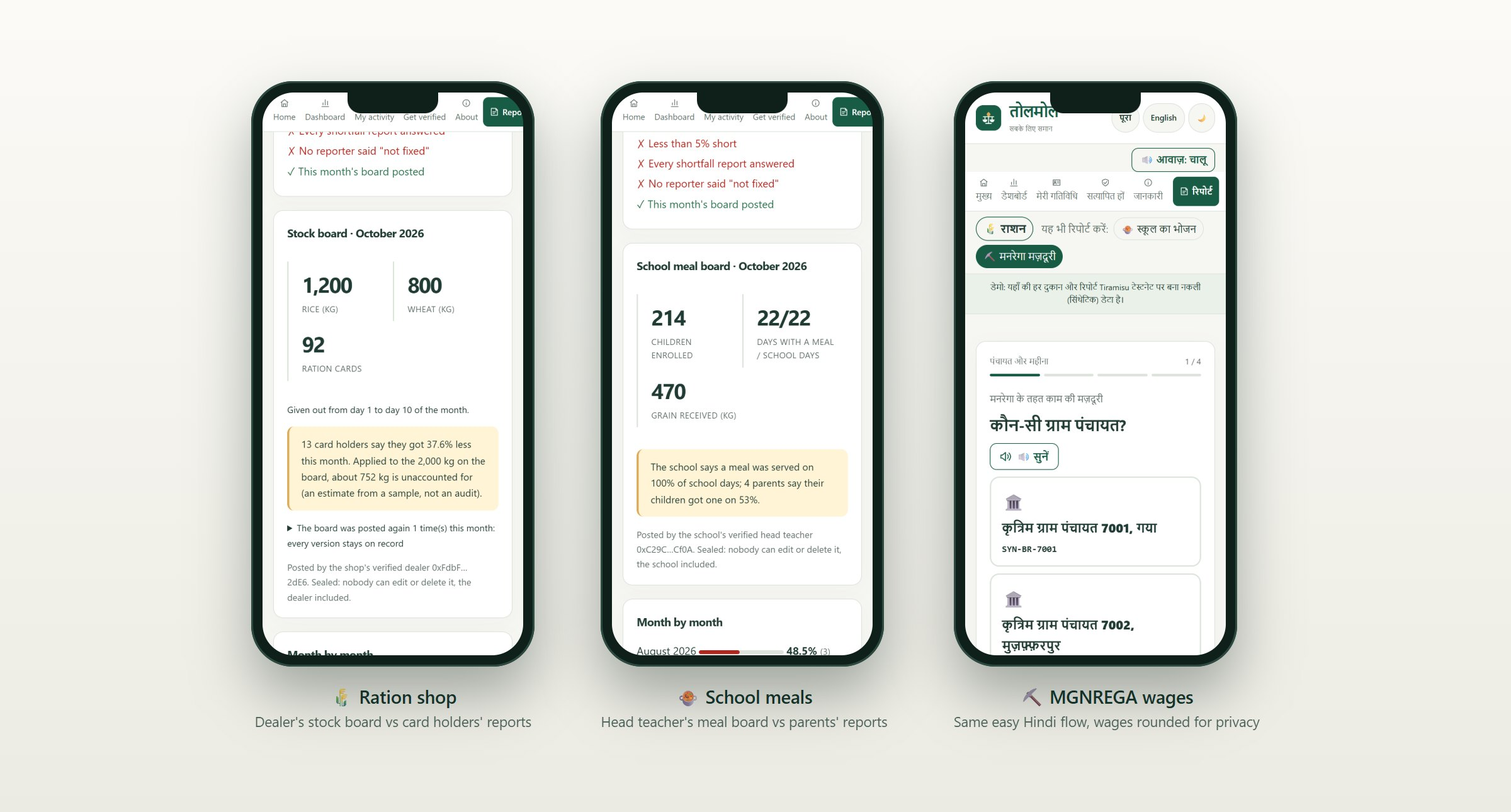
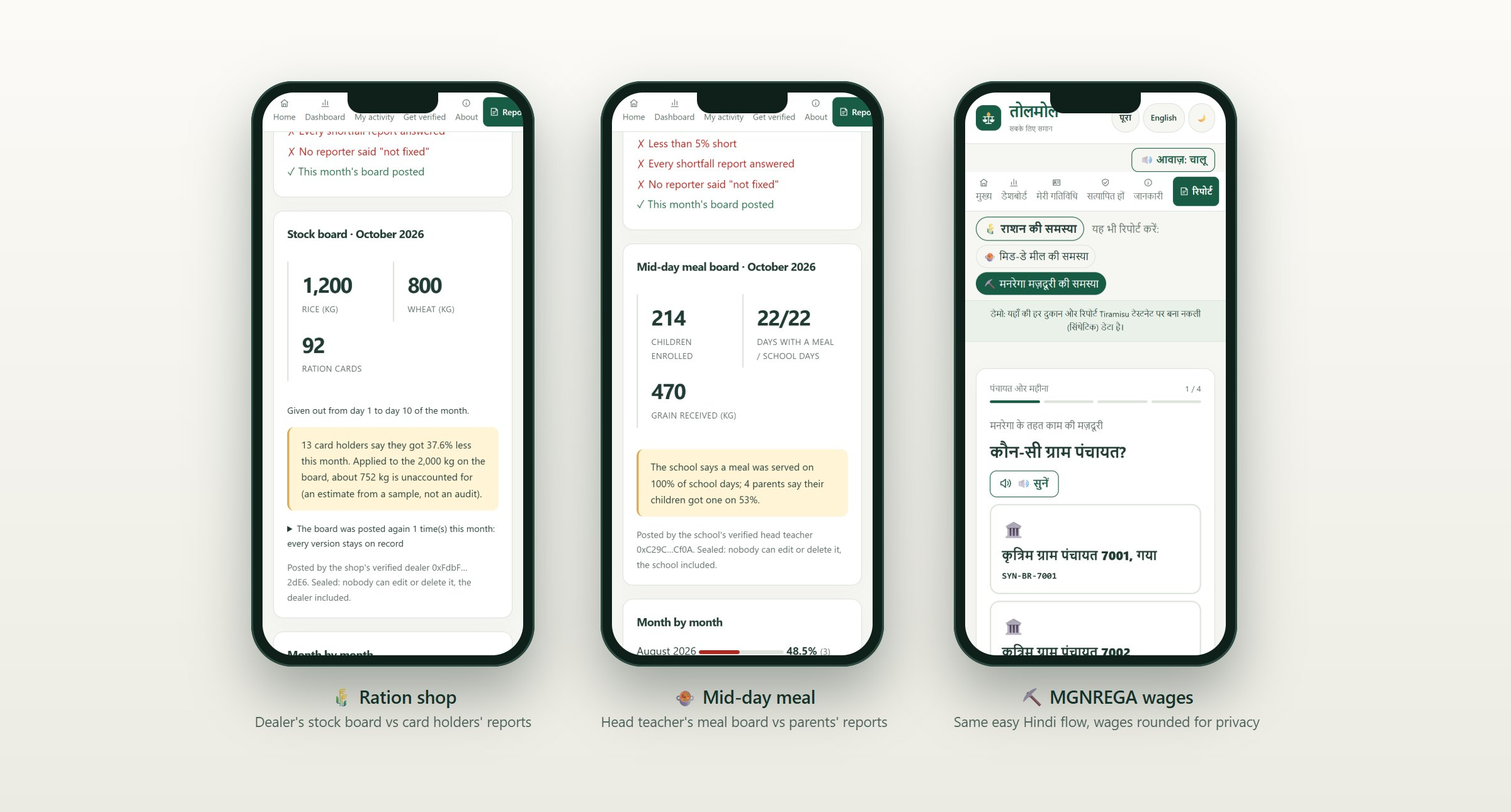
Clearer section names in both languages: Ration problem, Mid-day meal problem, MGNREGA wage problem; the school scheme is called mid-day meal everywhere

diff --git a/apps/web/src/i18n.ts b/apps/web/src/i18n.ts
@@ -417,7 +417,7 @@ const en = {
   gateTitle: "What are you here about?",
   gateHelp: "Choose one. You can switch at any time at the top of the home page.",
   gate_pds: "Ration from the ration shop",
-  gate_mdm: "My child's school meal",
+  gate_mdm: "My child's mid-day meal",
   gate_nrega: "MGNREGA work and wages",
   home1_mdm: "Your child's meal.",
   home2_mdm: "Every school day.",
@@ -444,20 +444,20 @@ const en = {
   homeStep4_nrega: "Officials of the district see the panchayat on their list, and you can print a complaint to the Programme Officer or an RTI for the muster rolls.",
   checkTitle_mdm: "Check my school",
   checkTitle_nrega: "Check my panchayat",
-  addOnsTitle: "Also on Tolmol: school meals and MGNREGA wages",
+  addOnsTitle: "Also on Tolmol: mid-day meals and MGNREGA wages",
   addOnsHelp: "Tolmol is built for ration. The same tamper-proof record also works for two more entitlements that people are often denied without a trace.",
   addOnProblem_mdm: "Meals skipped, cut or watered down at school, and the register still says every child ate.",
   addOnProblem_nrega: "Wages late or short, work refused, job cards kept, names of people who never worked on the muster roll.",
   backToRation: "Ration",
-  hubAddOnsTitle: "Also on Tolmol: school meals and MGNREGA",
-  hubAddOnsBody: "The same record for a child's school meal and for rural work wages.",
-  hubAddOnsAction: "See school meals and MGNREGA",
-  addOnsLink: "School meals and MGNREGA",
+  hubAddOnsTitle: "Also on Tolmol: mid-day meals and MGNREGA",
+  hubAddOnsBody: "The same record for a child's mid-day meal at school and for rural work wages.",
+  hubAddOnsAction: "See mid-day meals and MGNREGA",
+  addOnsLink: "Mid-day meals and MGNREGA",
   wsLabel: "Workspaces",
-  wsRation: "Ration",
+  wsRation: "Ration problem",
   wsAlso: "Also report:",
-  wsMdm: "School meals",
-  wsNrega: "MGNREGA wages",
+  wsMdm: "Mid-day meal problem",
+  wsNrega: "MGNREGA wage problem",
   progLabel: "Report steps",
   progOutlet_mdm: "School & month",
   progOutlet_nrega: "Panchayat & month",
@@ -467,7 +467,7 @@ const en = {
   progReview: "Check",
   wageRoundLabel: "Round the wages to the nearest ₹500 (recommended: muster rolls are public, and exact amounts could show who you are)",
   wageRounded: "To protect you, the wages are rounded to the nearest ₹500 (you entered {owed} owed and {paid} paid). Muster rolls are public, so exact amounts could be matched to your name.",
-  boardTitle_mdm: "School meal board",
+  boardTitle_mdm: "Mid-day meal board",
   boardTitle_nrega: "Panchayat work board",
   bChildren: "children enrolled",
   bMealDays: "days with a meal / school days",
@@ -527,14 +527,14 @@ const en = {
   outletSchool: "School (synthetic)",
   outletPanchayat: "Gram panchayat (synthetic)",
   verifyPrivacyRole: "What goes on Arkiv: only that this phone is verified for this role at {shop}, the day, and a fingerprint of the ID that cannot be turned back into it. No name, no ID number.",
-  meal_days: "School meals",
+  meal_days: "Mid-day meals",
   wage_inr: "Wages",
   unitDays: "days",
   scheme_pds: "Ration",
-  scheme_mdm: "School meals",
+  scheme_mdm: "Mid-day meal",
   scheme_nrega: "Rural work wages",
   schemeLong_pds: "Ration at the fair-price shop (National Food Security Act)",
-  schemeLong_mdm: "Hot cooked school meals (PM POSHAN, mid-day meal)",
+  schemeLong_mdm: "Hot cooked mid-day meal at school (PM POSHAN)",
   schemeLong_nrega: "Wages for work under MGNREGA",
   schemeHelp_pds: "Grain you are due every month",
   schemeHelp_mdm: "A hot cooked meal for your child on every school day",
@@ -1053,7 +1053,7 @@ const hi: Record<Key, string> = {
   previewSensitiveScheme: "आपने जो बताया उसकी वजह से आपकी सुरक्षा के लिए अलग ID चालू कर दिया गया है। चाहें तो निजता विकल्पों में बंद कर सकते हैं।",
   operatorIdTitle_SCH: "टेस्ट प्रधानाध्यापक ID",
   operatorIdTitle_GPO: "टेस्ट पंचायत रोज़गार सेवक ID",
-  operatorIdHelp_SCH: "डेमो के लिए नकली टेस्ट ID, किसी सरकार का जारी किया हुआ नहीं। यह इस फ़ोन को {shop} का सत्यापित प्रधानाध्यापक बनाता है, ताकि यह उस स्कूल के भोजन की रिपोर्टों का जवाब दे सके।",
+  operatorIdHelp_SCH: "डेमो के लिए नकली टेस्ट ID, किसी सरकार का जारी किया हुआ नहीं। यह इस फ़ोन को {shop} का सत्यापित प्रधानाध्यापक बनाता है, ताकि यह उस स्कूल के मिड-डे मील की रिपोर्टों का जवाब दे सके।",
   operatorIdHelp_GPO: "डेमो के लिए नकली टेस्ट ID, किसी सरकार का जारी किया हुआ नहीं। यह इस फ़ोन को {shop} का सत्यापित रोज़गार सेवक बनाता है, ताकि यह उस पंचायत की मज़दूरी की रिपोर्टों का जवाब दे सके।",
   verifyAsOperator: "इस फ़ोन को इस जगह का सत्यापित संचालक बनाएँ",
   operatorDone: "हो गया। यह फ़ोन अब {shop} की ओर से जवाब देता है। जवाब देने के लिए वहाँ की कोई रिपोर्ट खोलें।",
@@ -1178,7 +1178,7 @@ const hi: Record<Key, string> = {
   gateTitle: "आप किस बारे में आए हैं?",
   gateHelp: "एक चुनें। होम पेज के ऊपर कभी भी बदल सकते हैं।",
   gate_pds: "राशन दुकान से राशन",
-  gate_mdm: "मेरे बच्चे का स्कूल का भोजन",
+  gate_mdm: "मेरे बच्चे का मिड-डे मील",
   gate_nrega: "मनरेगा का काम और मज़दूरी",
   home1_mdm: "बच्चे का भोजन।",
   home2_mdm: "हर स्कूल दिवस।",
@@ -1205,20 +1205,20 @@ const hi: Record<Key, string> = {
   homeStep4_nrega: "ज़िले के अधिकारी पंचायत को अपनी सूची में देखते हैं, और आप कार्यक्रम अधिकारी को शिकायत या मस्टर रोल के लिए RTI छाप सकते हैं।",
   checkTitle_mdm: "मेरा स्कूल जाँचें",
   checkTitle_nrega: "मेरी पंचायत जाँचें",
-  addOnsTitle: "Tolmol पर यह भी: स्कूल का भोजन और मनरेगा मज़दूरी",
+  addOnsTitle: "Tolmol पर यह भी: मिड-डे मील और मनरेगा मज़दूरी",
   addOnsHelp: "Tolmol राशन के लिए बना है। यही छेड़छाड़-रहित रिकॉर्ड दो और हक़ों के लिए भी काम करता है, जो अक्सर बिना कोई निशान छोड़े छीन लिए जाते हैं।",
   addOnProblem_mdm: "स्कूल में भोजन छोड़ा, घटाया या पतला किया जाता है, और रजिस्टर में फिर भी लिखा होता है कि हर बच्चे ने खाया।",
   addOnProblem_nrega: "मज़दूरी देर से या कम, काम से इनकार, जॉब कार्ड किसी और के पास, मस्टर रोल में ऐसे लोगों के नाम जिन्होंने काम नहीं किया।",
   backToRation: "राशन",
-  hubAddOnsTitle: "Tolmol पर यह भी: स्कूल का भोजन और मनरेगा",
-  hubAddOnsBody: "बच्चे के स्कूल के भोजन और ग्रामीण काम की मज़दूरी के लिए भी यही रिकॉर्ड।",
-  hubAddOnsAction: "स्कूल का भोजन और मनरेगा देखें",
-  addOnsLink: "स्कूल का भोजन और मनरेगा",
+  hubAddOnsTitle: "Tolmol पर यह भी: मिड-डे मील और मनरेगा",
+  hubAddOnsBody: "बच्चे के मिड-डे मील और ग्रामीण काम की मज़दूरी के लिए भी यही रिकॉर्ड।",
+  hubAddOnsAction: "मिड-डे मील और मनरेगा देखें",
+  addOnsLink: "मिड-डे मील और मनरेगा",
   wsLabel: "कार्यक्षेत्र",
-  wsRation: "राशन",
+  wsRation: "राशन की समस्या",
   wsAlso: "यह भी रिपोर्ट करें:",
-  wsMdm: "स्कूल का भोजन",
-  wsNrega: "मनरेगा मज़दूरी",
+  wsMdm: "मिड-डे मील की समस्या",
+  wsNrega: "मनरेगा मज़दूरी की समस्या",
   progLabel: "रिपोर्ट के चरण",
   progOutlet_mdm: "स्कूल और महीना",
   progOutlet_nrega: "पंचायत और महीना",
@@ -1270,7 +1270,7 @@ const hi: Record<Key, string> = {
   qrTitle_nrega: "इस पंचायत का QR कोड",
   roleDealerTitle_mdm: "आप {shop} के सत्यापित प्रधानाध्यापक हैं",
   roleDealerTitle_nrega: "आप {shop} के सत्यापित रोज़गार सेवक हैं",
-  roleDealerBody_mdm: "अपने स्कूल के भोजन के बारे में माता-पिता की रिपोर्टों का जवाब तय सूची से दें। आपके जवाब सार्वजनिक हैं और वापस नहीं लिए जा सकते।",
+  roleDealerBody_mdm: "अपने स्कूल के मिड-डे मील के बारे में माता-पिता की रिपोर्टों का जवाब तय सूची से दें। आपके जवाब सार्वजनिक हैं और वापस नहीं लिए जा सकते।",
   roleDealerBody_nrega: "अपनी पंचायत के काम और मज़दूरी के बारे में मज़दूरों की रिपोर्टों का जवाब तय सूची से दें। आपके जवाब सार्वजनिक हैं और वापस नहीं लिए जा सकते।",
   roleDealerAction_mdm: "मेरा स्कूल खोलें",
   roleDealerAction_nrega: "मेरी पंचायत खोलें",
@@ -1288,11 +1288,11 @@ const hi: Record<Key, string> = {
   outletSchool: "स्कूल (नकली)",
   outletPanchayat: "ग्राम पंचायत (नकली)",
   verifyPrivacyRole: "Arkiv पर सिर्फ़ इतना जाता है: यह फ़ोन {shop} पर इस भूमिका के लिए सत्यापित है, दिन, और ID का एक फ़िंगरप्रिंट जिससे ID वापस नहीं बनाई जा सकती। न नाम, न ID नंबर।",
-  meal_days: "स्कूल का भोजन",
+  meal_days: "मिड-डे मील",
   wage_inr: "मज़दूरी",
   unitDays: "दिन",
   scheme_pds: "राशन",
-  scheme_mdm: "स्कूल का भोजन",
+  scheme_mdm: "मिड-डे मील",
   scheme_nrega: "ग्रामीण रोज़गार की मज़दूरी",
   schemeLong_pds: "उचित मूल्य दुकान से राशन (राष्ट्रीय खाद्य सुरक्षा अधिनियम)",
   schemeLong_mdm: "स्कूल में गरम पका भोजन (पीएम पोषण, मध्याह्न भोजन)",

diff --git a/apps/web/public/mirror.html b/apps/web/public/mirror.html
@@ -46,10 +46,10 @@
 <script>
 "use strict"
 const T = {
-  en: { title:"Tolmol reader", intro:"One file, no server: reads ration, school-meal and MGNREGA wage records straight from Arkiv. Demo data is synthetic.", rpc:"Arkiv server (any Tiramisu RPC)", shop:"Shop, school or panchayat ID", block:"Read as it was at block (optional)", go:"Read", reading:"Reading from Arkiv…", shortfall:"Shortfall", reports:"Reports (counted)", devices:"Devices", confirmed:"Confirmed by other devices", month:"Month", grain:"Item", got:"Got / due", conf:"Conf.", status:"Status", counted:"counted", dup:"duplicate", withdrawn:"withdrawn by reporter", none:"No reports here.", unknown:"Not in the registry (only outlets created by the registry wallet count).", readAt:"Read at block", err:"Could not read", foot:"Source: github.com/amannx21/Tolmol · Data format: arkiv/schema.md · Network: Arkiv Tiramisu (chain 7738577)", other:"हिन्दी" },
-  hi: { title:"तोलमोल रीडर", intro:"एक फ़ाइल, कोई सर्वर नहीं: राशन, स्कूल भोजन और मनरेगा मज़दूरी के रिकॉर्ड सीधे Arkiv से पढ़ता है। डेमो डेटा नकली है।", rpc:"Arkiv सर्वर (कोई भी Tiramisu RPC)", shop:"दुकान, स्कूल या पंचायत नंबर", block:"इस ब्लॉक पर जैसा था वैसा पढ़ें (ज़रूरी नहीं)", go:"पढ़ें", reading:"Arkiv से पढ़ा जा रहा है…", shortfall:"कमी", reports:"रिपोर्टें (गिनी गईं)", devices:"डिवाइस", confirmed:"दूसरे डिवाइसों से पुष्ट", month:"महीना", grain:"चीज़", got:"मिला / हक़", conf:"पुष्टि", status:"स्थिति", counted:"गिनी गई", dup:"दोहराई गई", withdrawn:"रिपोर्ट करने वाले ने वापस ली", none:"यहाँ कोई रिपोर्ट नहीं।", unknown:"रजिस्टर में नहीं है (सिर्फ़ रजिस्ट्री वॉलेट की बनाई जगहें गिनी जाती हैं)।", readAt:"इस ब्लॉक पर पढ़ा गया", err:"पढ़ा नहीं जा सका", foot:"सोर्स: github.com/amannx21/Tolmol · डेटा स्वरूप: arkiv/schema.md · नेटवर्क: Arkiv Tiramisu (chain 7738577)", other:"English" },
+  en: { title:"Tolmol reader", intro:"One file, no server: reads ration, mid-day meal and MGNREGA wage records straight from Arkiv. Demo data is synthetic.", rpc:"Arkiv server (any Tiramisu RPC)", shop:"Shop, school or panchayat ID", block:"Read as it was at block (optional)", go:"Read", reading:"Reading from Arkiv…", shortfall:"Shortfall", reports:"Reports (counted)", devices:"Devices", confirmed:"Confirmed by other devices", month:"Month", grain:"Item", got:"Got / due", conf:"Conf.", status:"Status", counted:"counted", dup:"duplicate", withdrawn:"withdrawn by reporter", none:"No reports here.", unknown:"Not in the registry (only outlets created by the registry wallet count).", readAt:"Read at block", err:"Could not read", foot:"Source: github.com/amannx21/Tolmol · Data format: arkiv/schema.md · Network: Arkiv Tiramisu (chain 7738577)", other:"हिन्दी" },
+  hi: { title:"तोलमोल रीडर", intro:"एक फ़ाइल, कोई सर्वर नहीं: राशन, मिड-डे मील और मनरेगा मज़दूरी के रिकॉर्ड सीधे Arkiv से पढ़ता है। डेमो डेटा नकली है।", rpc:"Arkiv सर्वर (कोई भी Tiramisu RPC)", shop:"दुकान, स्कूल या पंचायत नंबर", block:"इस ब्लॉक पर जैसा था वैसा पढ़ें (ज़रूरी नहीं)", go:"पढ़ें", reading:"Arkiv से पढ़ा जा रहा है…", shortfall:"कमी", reports:"रिपोर्टें (गिनी गईं)", devices:"डिवाइस", confirmed:"दूसरे डिवाइसों से पुष्ट", month:"महीना", grain:"चीज़", got:"मिला / हक़", conf:"पुष्टि", status:"स्थिति", counted:"गिनी गई", dup:"दोहराई गई", withdrawn:"रिपोर्ट करने वाले ने वापस ली", none:"यहाँ कोई रिपोर्ट नहीं।", unknown:"रजिस्टर में नहीं है (सिर्फ़ रजिस्ट्री वॉलेट की बनाई जगहें गिनी जाती हैं)।", readAt:"इस ब्लॉक पर पढ़ा गया", err:"पढ़ा नहीं जा सका", foot:"सोर्स: github.com/amannx21/Tolmol · डेटा स्वरूप: arkiv/schema.md · नेटवर्क: Arkiv Tiramisu (chain 7738577)", other:"English" },
 }
-const ITEM = { en:{rice:"rice",wheat:"wheat",millet:"millet",total:"all grain",meal_days:"school meals",wage_inr:"wages"}, hi:{rice:"चावल",wheat:"गेहूँ",millet:"मोटा अनाज",total:"कुल अनाज",meal_days:"स्कूल का भोजन",wage_inr:"मज़दूरी"} }
+const ITEM = { en:{rice:"rice",wheat:"wheat",millet:"millet",total:"all grain",meal_days:"mid-day meals",wage_inr:"wages"}, hi:{rice:"चावल",wheat:"गेहूँ",millet:"मोटा अनाज",total:"कुल अनाज",meal_days:"मिड-डे मील",wage_inr:"मज़दूरी"} }
 // Each item's scheme and unit (arkiv/schema.md, "Other schemes on the same ledger").
 const SCHEME_OF = { rice:"pds", wheat:"pds", millet:"pds", total:"pds", meal_days:"mdm", wage_inr:"nrega" }
 const REGISTRY = "0x6DBf6A36E27d814c58A05312913DCEEfc0dAe221"

diff --git a/apps/web/src/rti.ts b/apps/web/src/rti.ts
@@ -295,7 +295,7 @@ function draftSchemeLetter(kind: "rti" | "complaint", input: RtiInput, scheme: E
   if (scheme === "mdm")
     return lang === "hi"
       ? `सेवा में,\nज़िला शिक्षा अधिकारी (पीएम पोषण / मध्याह्न भोजन),\n${district}\n\nविषय: ${name} (${input.shopId}) में बच्चों को स्कूल का भोजन न मिलने की शिकायत\n\nमहोदय/महोदया,\n\n${months} में ${name} में बच्चों को हर स्कूल दिवस पर गरम पका भोजन नहीं मिला।\n${record}\n${issueLines ? `इसके अलावा:\n${issueLines}` : ""}\n\nकृपया शिकायत की जाँच करें, स्कूल का भोजन रजिस्टर देखें, और हर स्कूल दिवस पर भोजन सुनिश्चित करें।\n\nमाता-पिता / अभिभावक का ${sign}\n\n${evidence}\n${note}`
-      : `To,\nThe District Education Officer (PM POSHAN / mid-day meal),\n${district}\n\nSubject: Complaint about school meals not given at ${name} (${input.shopId})\n\nSir/Madam,\n\nIn ${months}, children at ${name} did not get a hot cooked meal on every school day.\n${record}\n${issueLines ? `In addition:\n${issueLines}` : ""}\n\nPlease inquire into this complaint, examine the school's meal register, and make sure a meal is served on every school day.\n\nParent or guardian — ${sign}\n\n${evidence}\n${note}`
+      : `To,\nThe District Education Officer (PM POSHAN / mid-day meal),\n${district}\n\nSubject: Complaint about mid-day meals not given at ${name} (${input.shopId})\n\nSir/Madam,\n\nIn ${months}, children at ${name} did not get a hot cooked meal on every school day.\n${record}\n${issueLines ? `In addition:\n${issueLines}` : ""}\n\nPlease inquire into this complaint, examine the school's meal register, and make sure a meal is served on every school day.\n\nParent or guardian — ${sign}\n\n${evidence}\n${note}`
   return lang === "hi"
     ? `सेवा में,\nकार्यक्रम अधिकारी, मनरेगा, प्रखंड ______, ${district}\nप्रतिलिपि: ज़िले के मनरेगा लोकपाल\n\nविषय: ग्राम पंचायत ${name} (${input.shopId}) में मनरेगा मज़दूरी न मिलने या कम मिलने की शिकायत\n\nमहोदय/महोदया,\n\n${months} में ${name} में किए गए काम की पूरी मज़दूरी समय पर नहीं मिली।\n${record}\n${issueLines ? `इसके अलावा:\n${issueLines}` : ""}\n\nकृपया मस्टर रोल और भुगतान रिकॉर्ड की जाँच करें, बकाया मज़दूरी दिलवाएँ, और अधिनियम के अनुसार देरी का मुआवज़ा दें।\n\nजॉब कार्ड संख्या: ______________________\n${sign}\n\n${evidence}\n${note}`
     : `To,\nThe Programme Officer, MGNREGA, Block ______, ${district}\nCopy: the MGNREGA Ombudsperson of the district\n\nSubject: Complaint about MGNREGA wages not paid, or paid short, at Gram Panchayat ${name} (${input.shopId})\n\nSir/Madam,\n\nIn ${months}, workers at ${name} did not get the full wages for their work on time.\n${record}\n${issueLines ? `In addition:\n${issueLines}` : ""}\n\nPlease examine the muster rolls and payment records, pay the wages due, and pay compensation for the delay as the Act provides.\n\nJob card number: ______________________\n${sign}\n\n${evidence}\n${note}`

diff --git a/README.md b/README.md
@@ -19,7 +19,7 @@
 </div>
 
 Ration card holders, parents of school children and MGNREGA workers record what they were owed and what they
-actually got: grain at the ration shop, hot meals at school, wages at the panchayat. Neighbours confirm it, the
+actually got: grain at the ration shop, the mid-day meal at school, wages at the panchayat. Neighbours confirm it, the
 dealer, head teacher or employment assistant answers on the record, and district officials act on it. Every record
 lives on [Arkiv](https://arkiv.network), sealed so that nobody, including us, can edit or delete it, and anyone can
 read it without our website.
@@ -30,7 +30,7 @@ and every seeded record carries `synthetic = true`; districts are real place nam
 ## Why this exists
 
 81.35 crore Indians get free grain at more than 5 lakh ration shops, yet about **28% of PDS grain never reaches
-them** ([ICRIER, 2024](https://icrier.org/pdf/pb-27.pdf)). School meals and MGNREGA wages go missing the same way.
+them** ([ICRIER, 2024](https://icrier.org/pdf/pb-27.pdf)). Mid-day meals and MGNREGA wages go missing the same way.
 In each case the only record (the machine slip, the meal register, the muster roll) is kept by the side people would
 complain about. A complaint becomes their word against the dealer's, and portals and WhatsApp groups lose or delete
 it. Nobody sees the pattern across a shop or a district. Sources: [`docs/SOURCES.md`](docs/SOURCES.md).
@@ -41,7 +41,7 @@ it. Nobody sees the pattern across a shop or a district. Sources: [`docs/SOURCES
 
 <img src="docs/media/voice.jpg" alt="Two Hindi report screens with speech bubbles: the phone reads each question aloud" width="100%">
 
-1. Tap **मुझे कम राशन मिला** (or School meals, or MGNREGA wages). The phone **reads each question aloud in Hindi**
+1. Tap **मुझे कम राशन मिला** (or **मिड-डे मील की समस्या**, or **मनरेगा मज़दूरी की समस्या**). The phone **reads each question aloud in Hindi**
    with its own built-in voice, so nothing is sent to a server. With no internet it still speaks if the phone has the
    Hindi voice downloaded (Android: Settings → Text-to-speech). 🔊 सुनें replays a question.
 2. Answer with big buttons, pictures and **+ / −** steps: which shop, which month, how many people on the card, how
@@ -82,9 +82,9 @@ explorer link per row, and check an edited evidence file against the chain. They
 
 ## One ledger, three schemes
 
-<img src="docs/media/schemes.jpg" alt="Ration stock board, school meal board and MGNREGA report in Hindi" width="100%">
+<img src="docs/media/schemes.jpg" alt="Ration stock board, mid-day meal board and MGNREGA report in Hindi" width="100%">
 
-| | Ration (PDS) | School meals (PM POSHAN) | MGNREGA wages |
+| | Ration problem | Mid-day meal problem (PM POSHAN) | MGNREGA wage problem |
 |---|---|---|---|
 | People report | grain owed vs received | days with a hot meal | wages owed vs paid |
 | Who answers, and their board | dealer: stock board | head teacher: meal board | employment assistant: work board |
